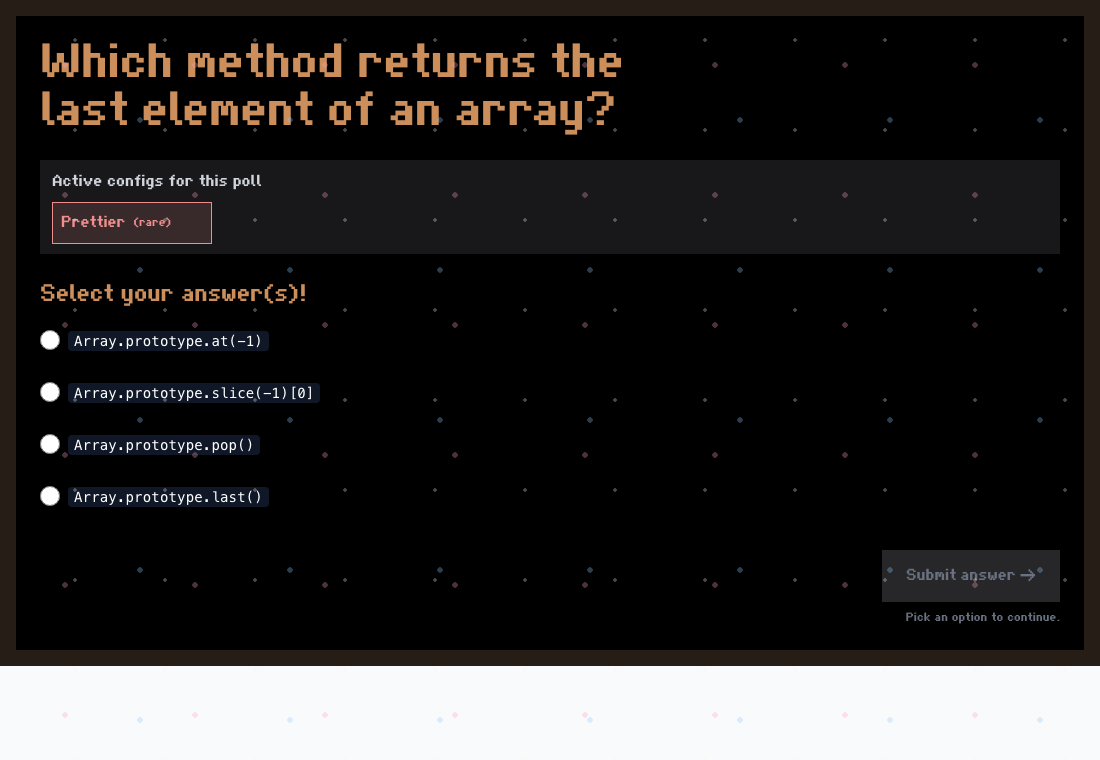
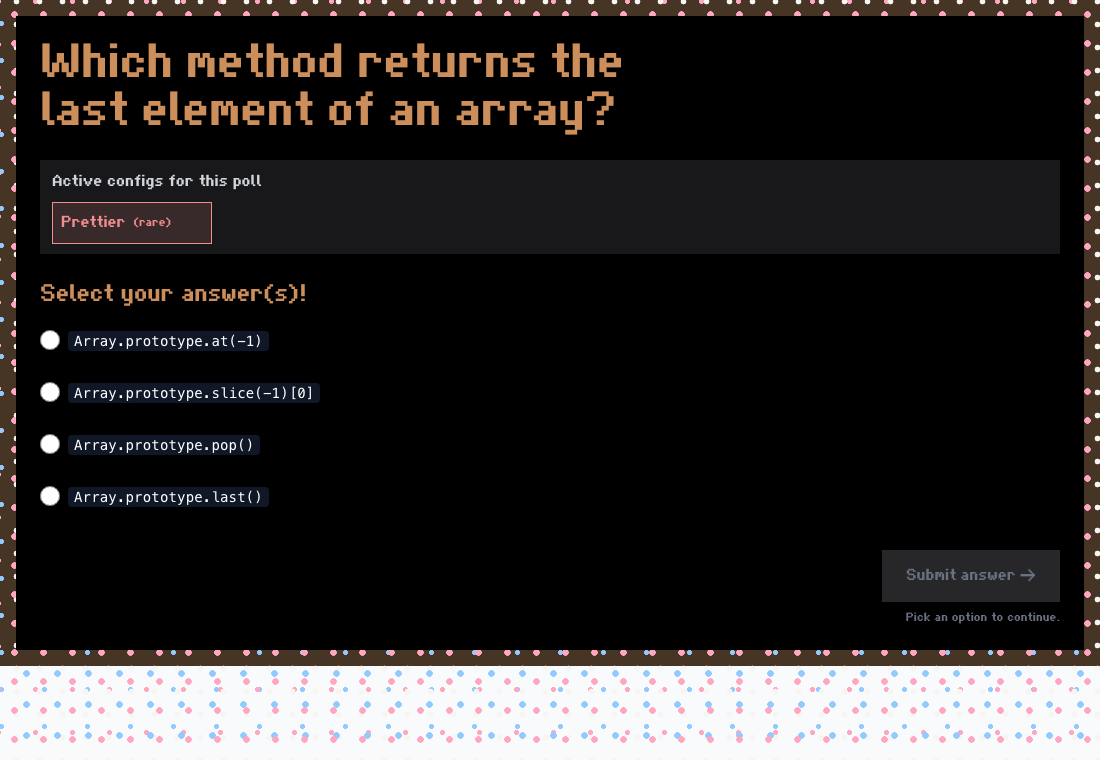
feat: bed the page in a dense layer of muisjes
Sparse dots read as dust rather than sprinkles. The page ground is now a
thick carpet of muisjes on baked rusk, and every screen sits on it as an
opaque beschuit plate so text keeps its contrast, with a thinner scatter of
muisjes over the plate itself. Five dot grids on coprime spacings keep the
repeat from showing.

Changed region(s): [[0.0, 0.0, 1.0, 0.9684], [0.4327, 0.9684, 0.4636, 0.9987]]

diff --git a/src/styles/app.css b/src/styles/app.css
@@ -494,56 +494,87 @@ meter::-webkit-meter-optimum-value {
 	--theme-color: var(--muisje-pink);
 }
 
-/* Girl / boy variants: one hue leads, the other stays as an accent. */
+/* Girl / boy variants: one hue leads, the other becomes a lighter shade of
+   the same, so both the palette and the sprinkles follow along. */
 [data-skin="muisjes-pink"] {
+	--muisje-blue: oklch(89% 0.06 350);
 	--color-cerulean: oklch(86% 0.07 350);
 	--theme-color: var(--muisje-pink);
 }
 
 [data-skin="muisjes-blue"] {
+	--muisje-pink: oklch(89% 0.05 230);
 	--color-vermillion: oklch(86% 0.07 230);
 	--theme-color: var(--muisje-blue);
 }
 
-/* Warm the page ground from flat black to baked-rusk brown. */
-[data-skin^="muisjes"] body {
-	background-color: oklch(24% 0.02 60);
+/* The sprinkles: five dot grids on coprime spacings, so the repeats never line
+   up and the muisjes read as a scattered carpet instead of a pattern. */
+[data-skin^="muisjes"] {
+	--muisjes-carpet:
+		radial-gradient(circle, var(--muisje-pink) 3px, transparent 3.6px),
+		radial-gradient(circle, var(--muisje-blue) 3px, transparent 3.6px),
+		radial-gradient(circle, var(--muisje-white) 2.6px, transparent 3.2px),
+		radial-gradient(circle, var(--muisje-pink) 2.2px, transparent 2.8px),
+		radial-gradient(circle, var(--muisje-blue) 2.2px, transparent 2.8px);
+	--muisjes-carpet-size: 29px 29px, 31px 31px, 23px 23px, 37px 43px, 43px 37px;
+	--muisjes-carpet-position: 0 0, 11px 7px, 5px 13px, 17px 23px, 23px 5px;
+
+	/* Same muisjes, spread thin — for surfaces that carry text. */
+	--muisjes-scatter:
+		radial-gradient(circle, var(--muisje-pink) 3px, transparent 3.6px),
+		radial-gradient(circle, var(--muisje-blue) 3px, transparent 3.6px),
+		radial-gradient(circle, var(--muisje-white) 2.4px, transparent 3px);
+	--muisjes-scatter-size: 97px 89px, 113px 101px, 79px 83px;
+	--muisjes-scatter-position: 0 0, 41px 29px, 17px 61px;
 }
 
-/* The sprinkles themselves: three offset dot grids scattered over the page.
-   They sit above the content — muisjes land on top of the beschuit — and are
-   click-through, so nothing behind them changes behaviour. */
+/* Warm the page ground from flat black to baked rusk, then bed it with a thick
+   layer of muisjes. `isolation` makes <body> a stacking context so the z-index
+   -1 layer lands above its own background instead of underneath it. */
+[data-skin^="muisjes"] body {
+	isolation: isolate;
+	background-color: oklch(34% 0.035 60);
+}
+
 [data-skin^="muisjes"] body::before {
 	content: "";
 	position: fixed;
 	inset: 0;
-	z-index: 9999;
+	z-index: -1;
 	pointer-events: none;
-	opacity: 0.3;
-	background-image:
-		radial-gradient(circle, var(--muisje-pink) 2.5px, transparent 3px),
-		radial-gradient(circle, var(--muisje-blue) 2.5px, transparent 3px),
-		radial-gradient(circle, var(--muisje-white) 1.5px, transparent 2px);
-	background-size:
-		130px 130px,
-		150px 150px,
-		90px 90px;
-	background-position:
-		0 0,
-		65px 45px,
-		30px 85px;
+	opacity: 1;
+	background-image: var(--muisjes-carpet);
+	background-size: var(--muisjes-carpet-size);
+	background-position: var(--muisjes-carpet-position);
 }
 
-[data-skin="muisjes-pink"] body::before {
-	background-image:
-		radial-gradient(circle, var(--muisje-pink) 2.5px, transparent 3px),
-		radial-gradient(circle, var(--muisje-pink) 2.5px, transparent 3px),
-		radial-gradient(circle, var(--muisje-white) 1.5px, transparent 2px);
+/* Every screen is a beschuit laid on that bed: an opaque rusk plate so text
+   keeps its contrast, with a few muisjes sprinkled over the top (click-through,
+   so nothing behind them changes behaviour). */
+[data-skin^="muisjes"] [data-screen-transition] {
+	position: relative;
+	background-color: oklch(19% 0.018 60);
+	box-shadow: 0 0 0 1px oklch(from var(--beschuit-crust) l c h / 0.35);
 }
 
-[data-skin="muisjes-blue"] body::before {
-	background-image:
-		radial-gradient(circle, var(--muisje-blue) 2.5px, transparent 3px),
-		radial-gradient(circle, var(--muisje-blue) 2.5px, transparent 3px),
-		radial-gradient(circle, var(--muisje-white) 1.5px, transparent 2px);
+/* A screen nested in a screen is one beschuit, not two stacked plates. */
+[data-skin^="muisjes"] [data-screen-transition] [data-screen-transition] {
+	background-color: transparent;
+	box-shadow: none;
+}
+
+[data-skin^="muisjes"] [data-screen-transition] [data-screen-transition]::before {
+	display: none;
+}
+
+[data-skin^="muisjes"] [data-screen-transition]::before {
+	content: "";
+	position: absolute;
+	inset: 0;
+	pointer-events: none;
+	opacity: 0.4;
+	background-image: var(--muisjes-scatter);
+	background-size: var(--muisjes-scatter-size);
+	background-position: var(--muisjes-scatter-position);
 }
